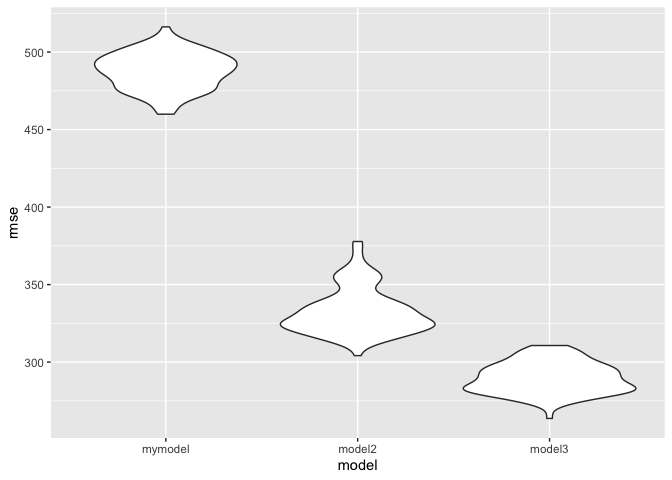
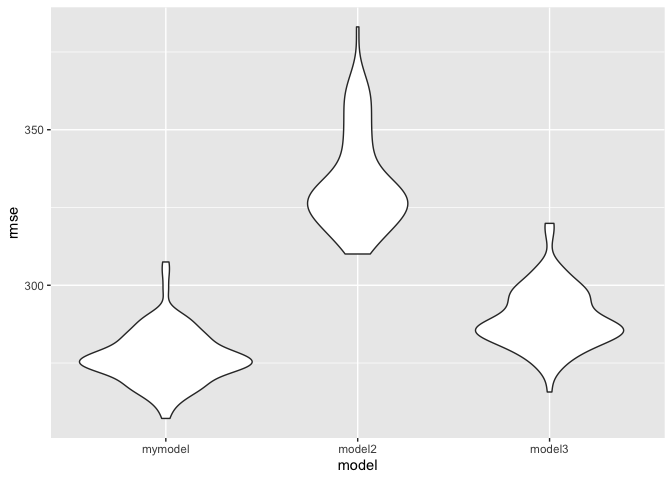
mission completed

diff --git a/p8015_hw6_jl5549.md b/p8015_hw6_jl5549.md
@@ -36,39 +36,225 @@ head(birthweight)
     ## #   smoken <dbl>, wtgain <dbl>
 
 ``` r
-mymodel = lm(bwt~ wtgain*fincome, data = birthweight)
+mymodel =step(lm(bwt ~ ., data = birthweight), direction = "backward", k=log(nrow(birthweight)))
+```
+
+    ## Start:  AIC=49127.61
+    ## bwt ~ babysex + bhead + blength + delwt + fincome + frace + gaweeks + 
+    ##     malform + menarche + mheight + momage + mrace + parity + 
+    ##     pnumlbw + pnumsga + ppbmi + ppwt + smoken + wtgain
+    ## 
+    ## 
+    ## Step:  AIC=49127.61
+    ## bwt ~ babysex + bhead + blength + delwt + fincome + frace + gaweeks + 
+    ##     malform + menarche + mheight + momage + mrace + parity + 
+    ##     pnumlbw + pnumsga + ppbmi + ppwt + smoken
+    ## 
+    ## 
+    ## Step:  AIC=49127.61
+    ## bwt ~ babysex + bhead + blength + delwt + fincome + frace + gaweeks + 
+    ##     malform + menarche + mheight + momage + mrace + parity + 
+    ##     pnumlbw + ppbmi + ppwt + smoken
+    ## 
+    ## 
+    ## Step:  AIC=49127.61
+    ## bwt ~ babysex + bhead + blength + delwt + fincome + frace + gaweeks + 
+    ##     malform + menarche + mheight + momage + mrace + parity + 
+    ##     ppbmi + ppwt + smoken
+    ## 
+    ##            Df Sum of Sq       RSS   AIC
+    ## - momage   32   4436052 329004012 48919
+    ## - ppbmi     1         4 324567964 49119
+    ## - malform   1      5072 324573032 49119
+    ## - frace     1     15680 324583640 49119
+    ## - mheight   1     19125 324587085 49119
+    ## - ppwt      1     90512 324658473 49120
+    ## - menarche  1    259040 324827000 49123
+    ## - parity    1    422515 324990475 49125
+    ## <none>                  324567960 49128
+    ## - fincome   1    740498 325308458 49129
+    ## - babysex   1    984939 325552900 49132
+    ## - mrace     1   1756130 326324090 49143
+    ## - smoken    1   3064411 327632371 49160
+    ## - gaweeks   1   4679144 329247104 49181
+    ## - delwt     1   7461071 332029031 49218
+    ## - blength   1 104365842 428933802 50330
+    ## - bhead     1 113907942 438475903 50425
+    ## 
+    ## Step:  AIC=48918.52
+    ## bwt ~ babysex + bhead + blength + delwt + fincome + frace + gaweeks + 
+    ##     malform + menarche + mheight + mrace + parity + ppbmi + ppwt + 
+    ##     smoken
+    ## 
+    ##            Df Sum of Sq       RSS   AIC
+    ## - ppbmi     1       177 329004189 48910
+    ## - malform   1      5314 329009326 48910
+    ## - mheight   1     16312 329020324 48910
+    ## - frace     1     36531 329040543 48911
+    ## - menarche  1     63089 329067101 48911
+    ## - ppwt      1     69149 329073160 48911
+    ## - parity    1    440024 329444035 48916
+    ## <none>                  329004012 48919
+    ## - babysex   1   1046080 330050091 48924
+    ## - fincome   1   1643154 330647166 48932
+    ## - mrace     1   1909493 330913505 48935
+    ## - smoken    1   3025038 332029050 48950
+    ## - gaweeks   1   5280393 334284405 48979
+    ## - delwt     1   7126552 336130564 49003
+    ## - blength   1 106659399 435663411 50129
+    ## - bhead     1 114562643 443566654 50207
+    ## 
+    ## Step:  AIC=48910.14
+    ## bwt ~ babysex + bhead + blength + delwt + fincome + frace + gaweeks + 
+    ##     malform + menarche + mheight + mrace + parity + ppwt + smoken
+    ## 
+    ##            Df Sum of Sq       RSS   AIC
+    ## - malform   1      5328 329009517 48902
+    ## - frace     1     36566 329040755 48902
+    ## - menarche  1     62955 329067144 48903
+    ## - parity    1    440344 329444533 48908
+    ## <none>                  329004189 48910
+    ## - mheight   1    652922 329657111 48910
+    ## - babysex   1   1046426 330050615 48916
+    ## - fincome   1   1642998 330647187 48923
+    ## - mrace     1   1909966 330914155 48927
+    ## - ppwt      1   2838635 331842824 48939
+    ## - smoken    1   3025033 332029222 48942
+    ## - gaweeks   1   5281399 334285588 48971
+    ## - delwt     1   7127957 336132146 48995
+    ## - blength   1 106659222 435663412 50121
+    ## - bhead     1 114636201 443640390 50200
+    ## 
+    ## Step:  AIC=48901.84
+    ## bwt ~ babysex + bhead + blength + delwt + fincome + frace + gaweeks + 
+    ##     menarche + mheight + mrace + parity + ppwt + smoken
+    ## 
+    ##            Df Sum of Sq       RSS   AIC
+    ## - frace     1     36794 329046311 48894
+    ## - menarche  1     63227 329072744 48894
+    ## - parity    1    440083 329449600 48899
+    ## <none>                  329009517 48902
+    ## - mheight   1    651487 329661005 48902
+    ## - babysex   1   1044425 330053942 48907
+    ## - fincome   1   1640562 330650080 48915
+    ## - mrace     1   1912318 330921835 48919
+    ## - ppwt      1   2847200 331856717 48931
+    ## - smoken    1   3020422 332029939 48933
+    ## - gaweeks   1   5278864 334288382 48963
+    ## - delwt     1   7146996 336156513 48987
+    ## - blength   1 106661358 435670876 50113
+    ## - bhead     1 114659436 443668953 50192
+    ## 
+    ## Step:  AIC=48893.95
+    ## bwt ~ babysex + bhead + blength + delwt + fincome + gaweeks + 
+    ##     menarche + mheight + mrace + parity + ppwt + smoken
+    ## 
+    ##            Df Sum of Sq       RSS   AIC
+    ## - menarche  1     65591 329111903 48886
+    ## - parity    1    441076 329487388 48891
+    ## <none>                  329046311 48894
+    ## - mheight   1    660704 329707015 48894
+    ## - babysex   1   1044124 330090435 48899
+    ## - fincome   1   1674048 330720359 48908
+    ## - ppwt      1   2850345 331896656 48923
+    ## - smoken    1   3009625 332055937 48925
+    ## - gaweeks   1   5282183 334328495 48955
+    ## - mrace     1   6507709 335554021 48971
+    ## - delwt     1   7133627 336179938 48979
+    ## - blength   1 106676377 435722689 50105
+    ## - bhead     1 114677204 443723515 50184
+    ## 
+    ## Step:  AIC=48886.43
+    ## bwt ~ babysex + bhead + blength + delwt + fincome + gaweeks + 
+    ##     mheight + mrace + parity + ppwt + smoken
+    ## 
+    ##           Df Sum of Sq       RSS   AIC
+    ## - parity   1    433976 329545879 48884
+    ## - mheight  1    619106 329731009 48886
+    ## <none>                 329111903 48886
+    ## - babysex  1   1049166 330161069 48892
+    ## - fincome  1   1680472 330792375 48900
+    ## - ppwt     1   2843366 331955269 48915
+    ## - smoken   1   3029707 332141610 48918
+    ## - gaweeks  1   5267967 334379869 48947
+    ## - mrace    1   6558118 335670021 48964
+    ## - delwt    1   7246252 336358155 48973
+    ## - blength  1 106835723 435947625 50099
+    ## - bhead    1 114612879 443724782 50175
+    ## 
+    ## Step:  AIC=48883.78
+    ## bwt ~ babysex + bhead + blength + delwt + fincome + gaweeks + 
+    ##     mheight + mrace + ppwt + smoken
+    ## 
+    ##           Df Sum of Sq       RSS   AIC
+    ## - mheight  1    609943 330155822 48883
+    ## <none>                 329545879 48884
+    ## - babysex  1   1087696 330633575 48890
+    ## - fincome  1   1646710 331192589 48897
+    ## - ppwt     1   2891872 332437751 48913
+    ## - smoken   1   3037467 332583346 48915
+    ## - gaweeks  1   5066066 334611945 48942
+    ## - mrace    1   6618022 336163901 48962
+    ## - delwt    1   7329176 336875055 48971
+    ## - blength  1 106662814 436208692 50093
+    ## - bhead    1 114940226 444486105 50175
+    ## 
+    ## Step:  AIC=48883.43
+    ## bwt ~ babysex + bhead + blength + delwt + fincome + gaweeks + 
+    ##     mrace + ppwt + smoken
+    ## 
+    ##           Df Sum of Sq       RSS   AIC
+    ## <none>                 330155822 48883
+    ## - babysex  1   1134157 331289979 48890
+    ## - fincome  1   1783532 331939354 48898
+    ## - ppwt     1   2554058 332709880 48909
+    ## - smoken   1   3002692 333158513 48914
+    ## - gaweeks  1   4982884 335138706 48940
+    ## - mrace    1   7575850 337731672 48974
+    ## - delwt    1   7676777 337832599 48975
+    ## - blength  1 108304546 438460368 50107
+    ## - bhead    1 114773103 444928925 50170
+
+``` r
 summary(mymodel)
 ```
 
     ## 
     ## Call:
-    ## lm(formula = bwt ~ wtgain * fincome, data = birthweight)
+    ## lm(formula = bwt ~ babysex + bhead + blength + delwt + fincome + 
+    ##     gaweeks + mrace + ppwt + smoken, data = birthweight)
     ## 
     ## Residuals:
     ##      Min       1Q   Median       3Q      Max 
-    ## -2587.94  -286.07    14.79   318.42  1644.56 
+    ## -1086.18  -183.73    -4.68   173.85  2450.49 
     ## 
     ## Coefficients:
-    ##                  Estimate Std. Error t value Pr(>|t|)    
-    ## (Intercept)    2636.08030   32.87667  80.181  < 2e-16 ***
-    ## wtgain           15.42720    1.33145  11.587  < 2e-16 ***
-    ## fincome           5.05012    0.65519   7.708 1.58e-14 ***
-    ## wtgain:fincome   -0.08776    0.02690  -3.263  0.00111 ** 
+    ##               Estimate Std. Error t value Pr(>|t|)    
+    ## (Intercept) -5923.5368    99.3058 -59.649  < 2e-16 ***
+    ## babysex2       32.9994     8.5543   3.858 0.000116 ***
+    ## bhead         134.7480     3.4723  38.807  < 2e-16 ***
+    ## blength        76.7689     2.0365  37.697  < 2e-16 ***
+    ## delwt           3.9704     0.3956  10.036  < 2e-16 ***
+    ## fincome         0.8245     0.1704   4.838 1.36e-06 ***
+    ## gaweeks        11.9288     1.4753   8.086 7.94e-16 ***
+    ## mrace         -58.7947     5.8971  -9.970  < 2e-16 ***
+    ## ppwt           -2.4748     0.4275  -5.789 7.58e-09 ***
+    ## smoken         -3.6543     0.5822  -6.277 3.79e-10 ***
     ## ---
     ## Signif. codes:  0 '***' 0.001 '**' 0.01 '*' 0.05 '.' 0.1 ' ' 1
     ## 
-    ## Residual standard error: 489.1 on 4338 degrees of freedom
-    ## Multiple R-squared:  0.08851,    Adjusted R-squared:  0.08788 
-    ## F-statistic: 140.4 on 3 and 4338 DF,  p-value: < 2.2e-16
+    ## Residual standard error: 276.1 on 4332 degrees of freedom
+    ## Multiple R-squared:   0.71,  Adjusted R-squared:  0.7094 
+    ## F-statistic:  1179 on 9 and 4332 DF,  p-value: < 2.2e-16
 
 ``` r
 #a plot of model residuals against fitted values
 birthweight %>% 
-  select(bwt, wtgain,fincome) %>% 
   add_predictions(mymodel) %>% 
   add_residuals(mymodel) %>% 
-  ggplot(aes(x = resid, y = pred))+
-  geom_line(col = 'brown')
+  ggplot(aes(x = pred, y = resid))+
+  geom_point(col = 'brown') +
+  geom_line(stat = "smooth", method = "lm")
 ```
 
 ![](p8015_hw6_jl5549_files/figure-gfm/unnamed-chunk-2-1.png)<!-- -->
@@ -78,10 +264,13 @@ broom::glance(mymodel)
 ```
 
     ## # A tibble: 1 x 11
-    ##   r.squared adj.r.squared sigma statistic  p.value    df  logLik    AIC
-    ##       <dbl>         <dbl> <dbl>     <dbl>    <dbl> <int>   <dbl>  <dbl>
-    ## 1    0.0885        0.0879  489.      140. 7.87e-87     4 -33047. 66105.
+    ##   r.squared adj.r.squared sigma statistic p.value    df  logLik    AIC
+    ##       <dbl>         <dbl> <dbl>     <dbl>   <dbl> <int>   <dbl>  <dbl>
+    ## 1     0.710         0.709  276.     1179.       0    10 -30561. 61144.
     ## # … with 3 more variables: BIC <dbl>, deviance <dbl>, df.residual <int>
+
+I used “Backward Elimination” method to build my model to remove the
+variable with lowest significance every time.
 
 ``` r
 cv_df =
@@ -91,16 +280,18 @@ cv_df =
     train = map(train, as_tibble),
     test = map(test, as_tibble)
   ) 
+#calculate there models' rmse
 cv_df= 
   cv_df%>% 
   mutate(
-    model1 = map(train, ~lm(bwt~ wtgain*fincome, data = .)),
+    model1 = map(train, ~lm(bwt ~ babysex + bhead + blength + delwt + fincome + gaweeks +  mrace + ppwt + smoken, data = .)),
     model2 = map(train, ~lm(bwt~blength+gaweeks, data = .)),
     model3 = map(train, ~lm(bwt~bhead*blength*babysex, data= .))
     ) %>% 
   mutate(rmse_mymodel = map2_dbl(model1, test, ~rmse(model = .x, data = .y)),
     rmse_model2 = map2_dbl(model2, test, ~rmse(model = .x, data = .y)),
          rmse_model3 = map2_dbl(model3, test, ~rmse(model = .x, data = .y)))
+#compare three models 
 cv_df %>% 
   select(starts_with('rmse')) %>%
   pivot_longer(everything(),
@@ -113,6 +304,10 @@ cv_df %>%
 ```
 
 ![](p8015_hw6_jl5549_files/figure-gfm/unnamed-chunk-3-1.png)<!-- -->
+
+According to the violin plot above we can see my model has lowest rmse
+which means it does better in prediction than other two models. And
+model2 has highest rmse. It has lowest predictive accuracy.
 
 ## Problem 2
 
@@ -183,8 +378,8 @@ beta %>%
 
 ``` r
 #2.5% and 97.5% quantiles
-q1 = quantile(beta$log_beta01, 0.025)
-q2 = quantile(beta$log_beta01, 0.975)
+q1_log_beta01= quantile(beta$log_beta01, 0.025)
+q2_log_beta01 = quantile(beta$log_beta01, 0.975)
 # construct CIs
 se_log_beta01 = sd(beta$log_beta01)/sqrt(length(beta$log_beta01))
 mean_log_beta01 = mean(beta$log_beta01)
@@ -193,7 +388,11 @@ CI_log_beta01 = c(mean_log_beta01 - qnorm(0.975)*se_log_beta01,
 CI_log_beta01
 ```
 
-    ## [1] 2.012573 2.013878
+    ## [1] 2.012255 2.013565
+
+The shape of log(estimated beta0 *estimated beta1) is close to normal.
+The mean is 2.0129099. The CI of log(beta0 * beta1) is (2.0122547,
+2.0135652)
 
 ``` r
 #find r^ 2
@@ -211,6 +410,9 @@ r2 %>%
 ![](p8015_hw6_jl5549_files/figure-gfm/unnamed-chunk-7-1.png)<!-- -->
 
 ``` r
+#2.5% and 97.5% quantiles
+q1_r2= quantile(r2$r_squared, 0.025)
+q2_r2= quantile(r2$r_squared, 0.975)
 # construct CIs
 se_rsquared = sd(r2$r_squared)/sqrt(length(r2$r_squared))
 mean_rsquared = mean(r2$r_squared)
@@ -219,17 +421,7 @@ CI_rsquared = c(mean_rsquared - qnorm(0.975)*se_rsquared,
 CI_rsquared
 ```
 
-    ## [1] 0.9111255 0.9115958
+    ## [1] 0.9113489 0.9118097
 
-\#identify the rows for 2.5% and 97.5% quantiles row\_q1 = beta %\>%
-arrange(log\_beta01) %\>% .\[round(length(.$log\_beta01)\*0.025),\]
-
-row\_q2 = beta %\>% arrange(log\_beta01) %\>%
-.\[round(length(.$log\_beta01)\*0.975),\] row\_q1$id\[1\] \# construct
-CIs
-
-data\_q1 = weather\_models %\>% filter(.id ==
-row\_q1\(id[1]) %>%  pull(strap) %>%  as.data.frame() CI_q1=  data_q1 %>%  c(mean(.\)tmin)-qnorm(0.975)*sd(.\(tmin)/sqrt(length(.\)tmin)),
-mean(.\(tmin)+qnorm(0.975)*sd(.\)tmin)/sqrt(length(.\(tmin))) CI_2= weather_models %>%  filter(id == row_q2\)id\[1\])
-%\>%
-c(mean(strap\(tmin)-qnorm(0.975)*sd(strap\)tmin)/sqrt(length(strap\(tmin)),  mean(strap\)tmin)+qnorm(0.975)*sd(strap\(tmin)/sqrt(length(strap\)tmin)))
+The shape of r^2 is close to normal. The mean is0.9115793. The CI of r^2
+is (0.9113489, 0.9118097)
